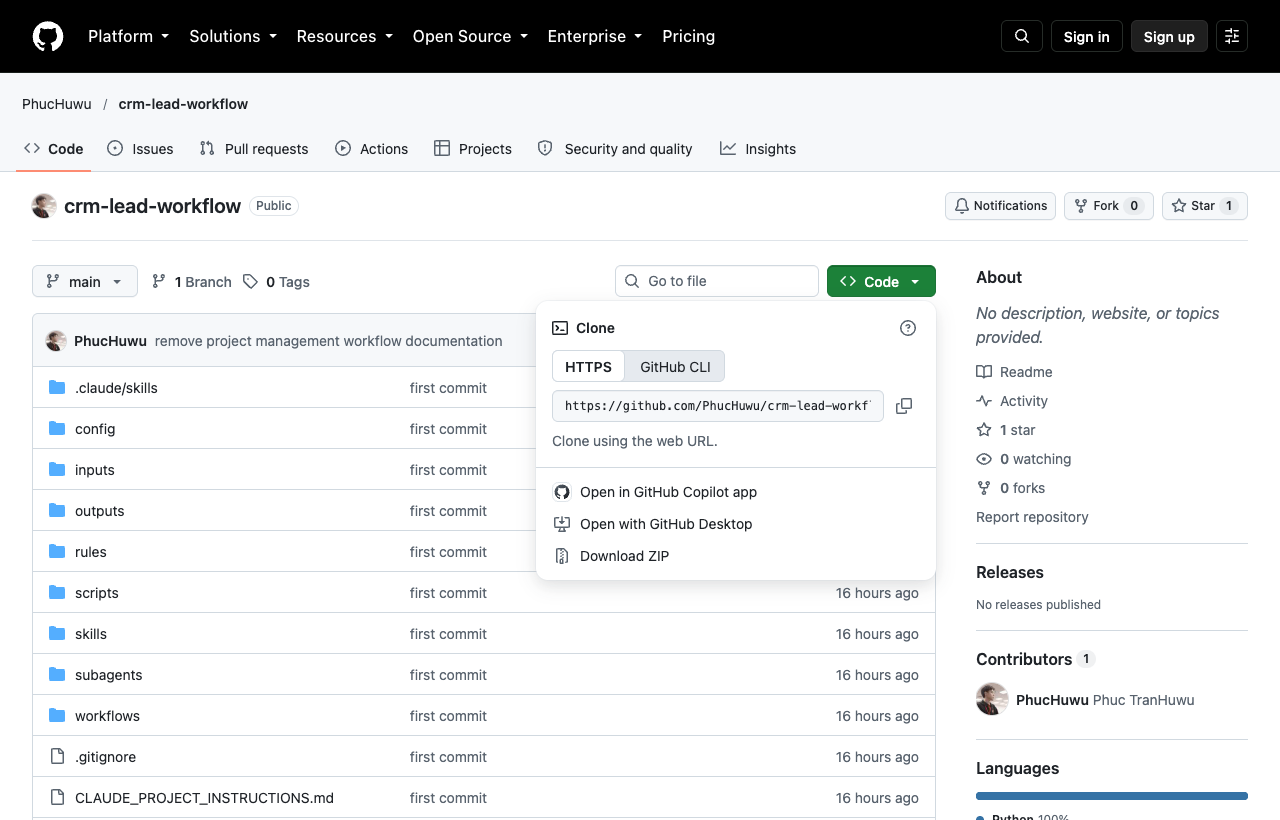
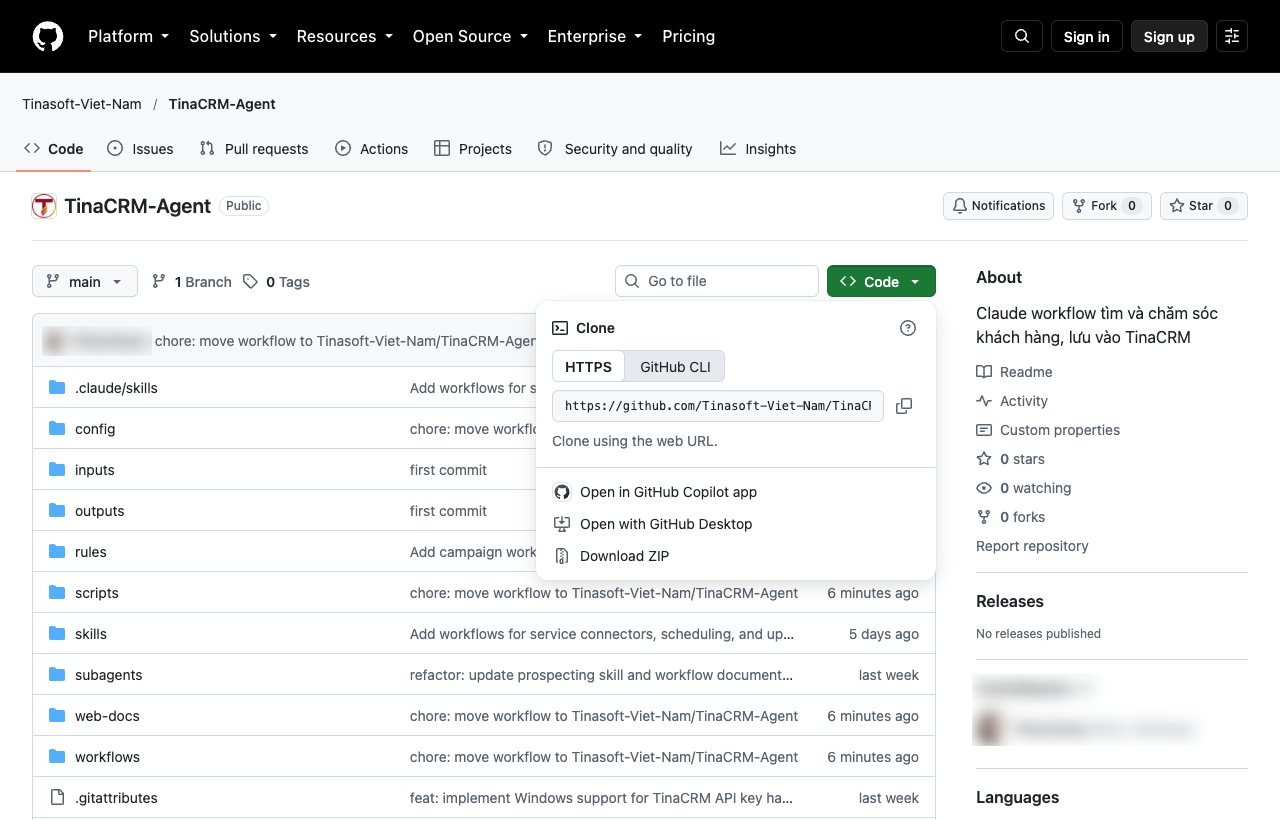
docs: recapture GitHub download screenshot for TinaCRM-Agent repo

diff --git a/web-docs/src/lib/visuals.ts b/web-docs/src/lib/visuals.ts
@@ -13,7 +13,7 @@ export type Visual = {
 };
 
 export const visuals: Record<string, Visual[]> = {
-  "tai-workflow:download": [{ src: "/illustrations/github-download.png", alt: "Trang GitHub TinaCRM-Agent với menu Code đang mở và lựa chọn Download ZIP ở cuối menu", caption: "", kind: "Ảnh chụp thực tế", source: "https://github.com/Tinasoft-Viet-Nam/TinaCRM-Agent", markers: [{ x: 64.2, y: 31.8, w: 9.2, h: 4.8, label: "1", text: "Code", badge: "above" }, { x: 42.4, y: 65.4, w: 30.4, h: 4.8, label: "2", badge: "left", text: "Download ZIP" }] }],
+  "tai-workflow:download": [{ src: "/illustrations/github-download.png", alt: "Trang GitHub TinaCRM-Agent với menu Code đang mở và lựa chọn Download ZIP ở cuối menu", caption: "", kind: "Ảnh chụp thực tế", source: "https://github.com/Tinasoft-Viet-Nam/TinaCRM-Agent", markers: [{ x: 64.4, y: 32.1, w: 8.9, h: 4.3, label: "1", text: "Code", badge: "above" }, { x: 42.3, y: 65.7, w: 30.4, h: 4.3, label: "2", badge: "left", text: "Download ZIP" }] }],
   "dat-tai-lieu:where": [{ src: "/illustrations/folder-map.svg", alt: "Sơ đồ thư mục workflow: inputs gồm 01_company_info cho hồ sơ công ty và 02_marketing_materials cho sản phẩm, outputs chứa kết quả", caption: "", kind: "Sơ đồ minh họa" }],
   "mo-claude-code:overview": [{ src: "/illustrations/claude-code-folder-chosen-full.png", srcLight: "/illustrations/claude-code-folder-chosen-full-light.png", alt: "Toàn bộ cửa sổ Claude Desktop ở tab Code: biểu tượng Code ở góc trên bên trái, thanh lựa chọn nằm ngay dưới ô nhập ở cuối cửa sổ", caption: "", kind: "Ảnh chụp thực tế", markers: [{ x: 10.3, y: 1.1, w: 1.9, h: 2.8, label: "1", text: "Tab Code (biểu tượng </>), góc trên bên trái", badge: "right" }, { x: 36.6, y: 96.3, w: 17.8, h: 2.9, label: "2", text: "Thanh dưới ô nhập: thư mục và quyền chọn ở đây", badge: "above" }] }],
   "mo-claude-code:folder": [{ src: "/illustrations/claude-code-open-folder-zoom.png", srcLight: "/illustrations/claude-code-open-folder-zoom-light.png", alt: "Phần dưới cửa sổ Claude Desktop: nút Choose… dưới ô nhập đang mở menu thư mục, Open folder… ở cuối menu", caption: "", kind: "Ảnh chụp thực tế", markers: [{ x: 26, y: 91.5, w: 9.5, h: 6.2, label: "1", text: "Choose…", badge: "below" }, { x: 26, y: 82.3, w: 33.6, h: 6.4, label: "2", text: "Open folder… → chọn thư mục workflow", badge: "right" }] }],

diff --git a/web-docs/public/illustrations/README.md b/web-docs/public/illustrations/README.md
@@ -3,7 +3,7 @@
 
 
 
-- `github-download.png`: ảnh chụp trang kho GitHub, không phải giao diện Claude.
+- `github-download.png`: ảnh chụp trang kho GitHub Tinasoft-Viet-Nam/TinaCRM-Agent (menu Code mở), chụp 2026-10-26 bằng Playwright, không phải giao diện Claude.
 - `folder-map.svg`, `copy-files.svg`, `unzip.svg`, `email-flow.svg`: sơ đồ thao tác/nghiệp vụ, không phải screenshot hệ điều hành hay ứng dụng.
 - `code-local.svg`: sơ đồ thao tác Code → Local → Select folder, đối chiếu tài liệu https://code.claude.com/docs/en/desktop-quickstart. Không phải ảnh chụp Claude Code.
 - Các ảnh Chat Projects/Add to project hoặc trang download không được dùng làm hình đối chiếu giao diện Code.
